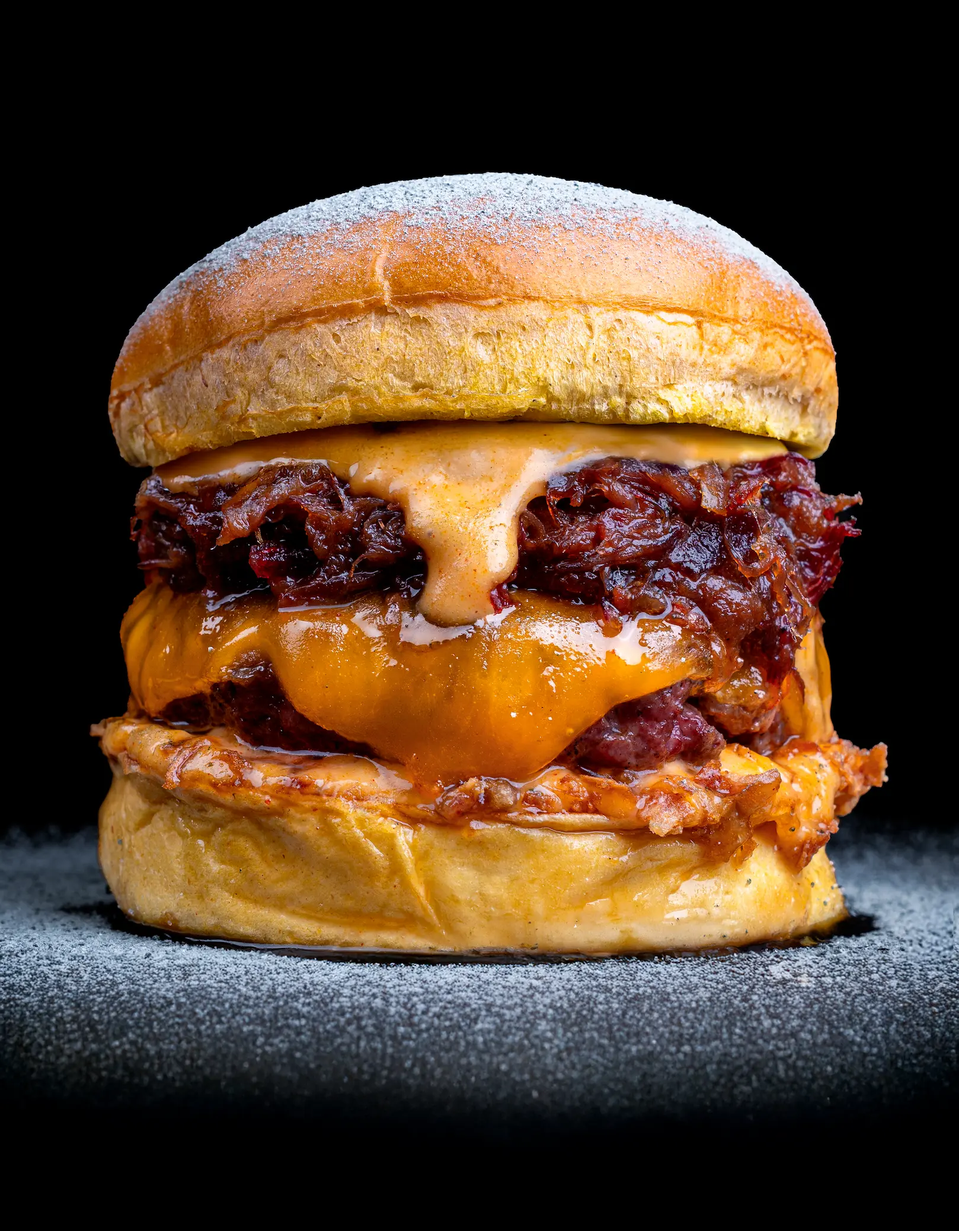
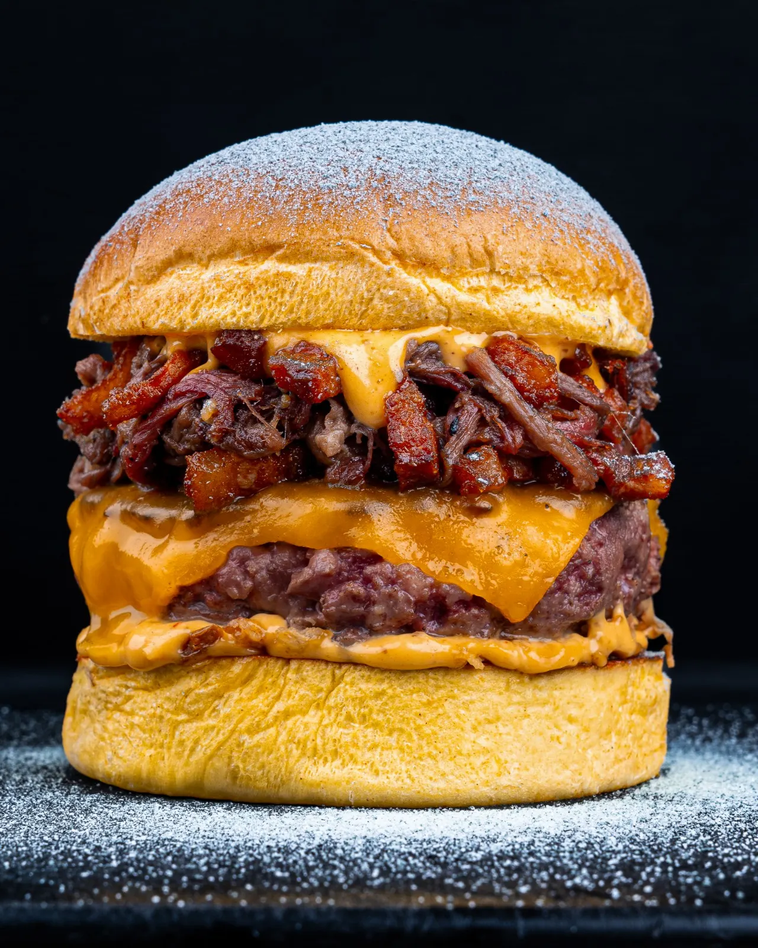
new burgers

diff --git a/src/components/ChampionSection.tsx b/src/components/ChampionSection.tsx
@@ -77,7 +77,10 @@ const ChampionSection = () => {
           </p>
           <ul>
             <li>
-              <strong>🥩 Brisket ahumado caramelizado</strong>, el protagonista absoluto.
+              <strong>🥩 Pulled beef</strong>, el protagonista absoluto.
+            </li>
+            <li>
+              <strong>🥓 Bacon bits</strong>, dorados y adictivos.
             </li>
             <li>
               <strong>🔥 Carne de chuletón de vaca nacional</strong>, jugosa y llena de sabor.
